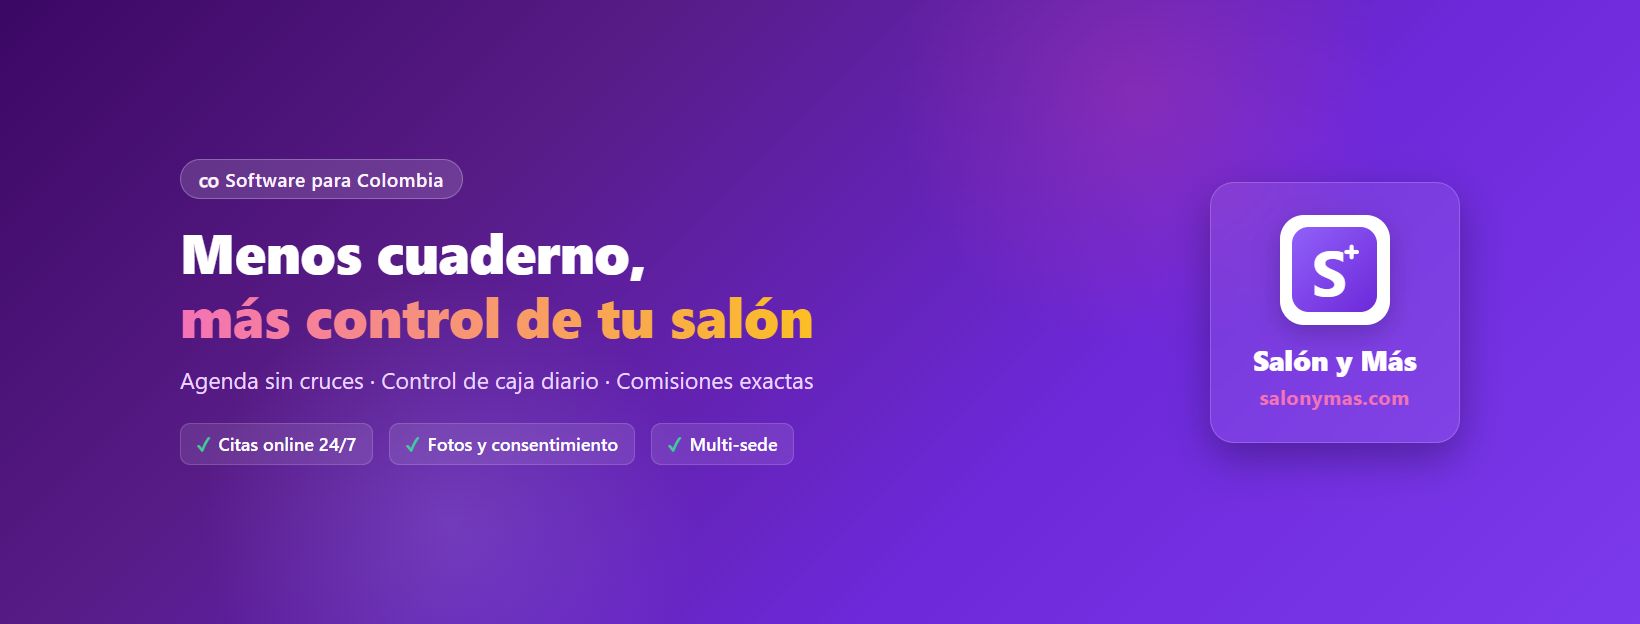
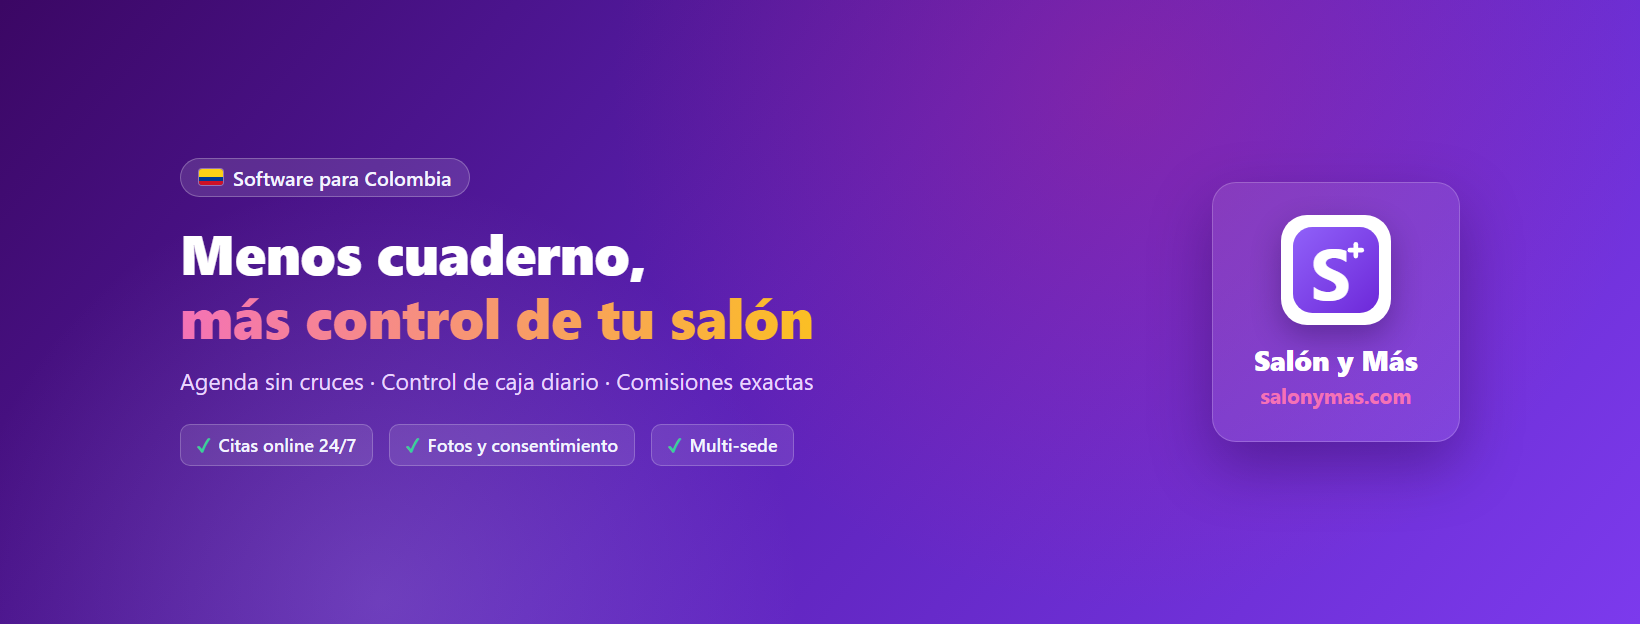
Marca: la portada de Facebook ya no dice "co"; sus plantillas viven en el repositorio
La portada del 06-sep salio con la bandera convertida en las letras "co"
(la trampa del emoji en Chrome sin ventana, anotada en REDES_SOCIALES §4).
Las plantillas de esas piezas se perdieron en una carpeta temporal, asi que
se reconstruyo midiendo el PNG: mismos textos y composicion, +-1 px; solo
cambia la bandera, ahora dibujada con sus tres franjas.

- marca/plantillas/portada_facebook.html: la fuente, con los colores en :root
- marca/plantillas/LEEME.md: el comando para exportar (probado) y las trampas
- REDES_SOCIALES.md: donde estan las plantillas y por que se rehizo

Aprobada por el propietario el 01-oct para subirla a Facebook.

diff --git a/docs/00_producto/marca/plantillas/portada_facebook.html b/docs/00_producto/marca/plantillas/portada_facebook.html
@@ -1,0 +1,199 @@
+<!doctype html>
+<html lang="es">
+<head>
+<meta charset="utf-8">
+<title>Portada de Facebook</title>
+<!--
+  Portada de la página de Facebook, 1640 x 624 px.
+  Es la fuente de docs/00_producto/marca/portada.png. Cómo se exporta: LEEME.md.
+
+  Reconstruida el 01-oct a partir del PNG del 06-sep, cuyas plantillas se
+  perdieron. Mismos textos y misma composición; el único cambio es la bandera,
+  que en el original salía como las letras "co".
+-->
+<style>
+  :root {
+    --morado: #7C3AED;
+    --morado-medio: #5B21B6;
+    --morado-noche: #3B0764;
+    --rosado: #F472B6;
+    --ambar: #FBBF24;
+    --lavanda: #E9D5FF;
+    --verde: #34D399;
+    --blanco: #FFFFFF;
+    --logo-claro: #9061F9;
+    --logo-oscuro: #6D28D9;
+  }
+
+  * { box-sizing: border-box; margin: 0; padding: 0; }
+
+  html, body { width: 1640px; height: 624px; overflow: hidden; }
+
+  body {
+    font-family: 'Segoe UI', system-ui, sans-serif;
+    color: var(--blanco);
+    background:
+      radial-gradient(circle 520px at 1130px 90px, rgba(219, 39, 119, .26), transparent),
+      radial-gradient(circle 420px at 380px 600px, rgba(196, 181, 253, .22), transparent),
+      linear-gradient(130deg, var(--morado-noche) 0%, var(--morado-medio) 48%, var(--morado) 100%);
+    display: flex;
+    align-items: center;
+    justify-content: space-between;
+    padding: 0 180px;
+  }
+
+  /* ---------- Bloque de texto, a la izquierda ---------- */
+
+  .etiqueta {
+    display: inline-flex;
+    align-items: center;
+    gap: 10px;
+    height: 39px;
+    padding: 0 18px;
+    border-radius: 999px;
+    background: rgba(255, 255, 255, .12);
+    border: 1px solid rgba(255, 255, 255, .25);
+    font-size: 20px;
+    font-weight: 600;
+    color: #F3F4FF;
+  }
+
+  /*
+    La bandera va dibujada, nunca como emoji: en Chrome sin ventana sobre
+    Windows el emoji de Colombia sale como las letras "co" (REDES_SOCIALES.md §4).
+    Franjas: amarillo 50 %, azul 25 %, rojo 25 %.
+  */
+  .bandera {
+    width: 24px;
+    height: 16px;
+    border-radius: 3px;
+    background: linear-gradient(to bottom,
+      #FCD116 0 50%, #003893 50% 75%, #CE1126 75% 100%);
+    box-shadow: 0 0 0 1px rgba(255, 255, 255, .35);
+    flex: none;
+  }
+
+  h1 {
+    margin-top: 23px;
+    font-size: 56px;
+    font-weight: 900;
+    line-height: 1.15;
+    letter-spacing: -.5px;
+  }
+
+  h1 .acento {
+    background: linear-gradient(90deg, var(--rosado), var(--ambar));
+    -webkit-background-clip: text;
+    background-clip: text;
+    color: transparent;
+  }
+
+  .resumen {
+    margin-top: 17px;
+    font-size: 23px;
+    color: var(--lavanda);
+  }
+
+  .pilares {
+    display: flex;
+    gap: 16px;
+    margin-top: 28px;
+  }
+
+  .pilar {
+    display: inline-flex;
+    align-items: center;
+    gap: 8px;
+    height: 42px;
+    padding: 0 16px;
+    border-radius: 10px;
+    background: rgba(255, 255, 255, .10);
+    border: 1px solid rgba(255, 255, 255, .22);
+    font-size: 18px;
+    font-weight: 600;
+    color: #F3F4FF;
+  }
+
+  .pilar::before {
+    content: "✓";
+    color: var(--verde);
+    font-weight: 700;
+  }
+
+  /* ---------- Tarjeta del logo, a la derecha ---------- */
+
+  .tarjeta {
+    width: 248px;
+    height: 260px;
+    border-radius: 24px;
+    background: rgba(255, 255, 255, .09);
+    border: 1.5px solid rgba(255, 255, 255, .20);
+    box-shadow: 0 24px 60px rgba(30, 0, 60, .35);
+    display: flex;
+    flex-direction: column;
+    align-items: center;
+    justify-content: center;
+  }
+
+  .logo {
+    width: 110px;
+    height: 110px;
+    padding: 12px;
+    border-radius: 26px;
+    background: var(--blanco);
+    box-shadow: 0 12px 30px rgba(20, 0, 50, .30);
+  }
+
+  .logo svg { display: block; width: 86px; height: 86px; }
+
+  .nombre {
+    margin-top: 16px;
+    font-size: 28px;
+    font-weight: 900;
+  }
+
+  .web {
+    margin-top: 2px;
+    font-size: 21px;
+    font-weight: 700;
+    color: var(--rosado);
+  }
+</style>
+</head>
+<body>
+
+  <section>
+    <span class="etiqueta"><span class="bandera" aria-hidden="true"></span>Software para Colombia</span>
+    <h1>Menos cuaderno,<br><span class="acento">más control de tu salón</span></h1>
+    <p class="resumen">Agenda sin cruces · Control de caja diario · Comisiones exactas</p>
+    <div class="pilares">
+      <span class="pilar">Citas online 24/7</span>
+      <span class="pilar">Fotos y consentimiento</span>
+      <span class="pilar">Multi-sede</span>
+    </div>
+  </section>
+
+  <aside class="tarjeta">
+    <div class="logo">
+      <!-- El isotipo S+, copiado de ../marca.svg -->
+      <svg viewBox="0 0 512 512" xmlns="http://www.w3.org/2000/svg">
+        <defs>
+          <linearGradient id="g" x1="0" y1="0" x2="1" y2="1">
+            <stop offset="0" stop-color="#9061F9"/>
+            <stop offset="1" stop-color="#6D28D9"/>
+          </linearGradient>
+        </defs>
+        <rect x="0" y="0" width="512" height="512" rx="115.2" ry="115.2" fill="url(#g)"/>
+        <text x="223.232" y="256" fill="#FFFFFF"
+              font-family="Segoe UI, Arial, Helvetica, sans-serif" font-weight="700"
+              font-size="425.984" text-anchor="middle" dominant-baseline="central">S</text>
+        <rect x="324.8128" y="124.1088" width="98.304" height="27.8528" rx="13.9264" fill="#FFFFFF"/>
+        <rect x="360.0384" y="88.8832" width="27.8528" height="98.304" rx="13.9264" fill="#FFFFFF"/>
+      </svg>
+    </div>
+    <div class="nombre">Salón y Más</div>
+    <div class="web">salonymas.com</div>
+  </aside>
+
+</body>
+</html>

diff --git a/docs/00_producto/marca/plantillas/LEEME.md b/docs/00_producto/marca/plantillas/LEEME.md
@@ -1,0 +1,36 @@
+# Plantillas de las piezas de marca
+
+Cada pieza gráfica de las redes nace aquí, como una página HTML, y se exporta a
+PNG con Chrome sin ventana. Sin licencias ni programas de pago.
+
+**Por qué están en el repositorio:** las plantillas de las piezas del 07-sep
+quedaron en una carpeta temporal y se perdieron. Para corregir una sola cosa de
+la portada hubo que reconstruirla entera el 01-oct, midiendo el PNG.
+
+| Plantilla | Exporta a | Medidas |
+|---|---|---|
+| `portada_facebook.html` | `../portada.png` | 1640 × 624 |
+
+## Cómo se exporta
+
+Desde la raíz del repositorio, en PowerShell (una sola línea):
+
+```powershell
+& "C:\Program Files\Google\Chrome\Application\chrome.exe" --headless=new --disable-gpu --hide-scrollbars --force-device-scale-factor=1 --window-size=1640,624 --screenshot="$PWD\docs\00_producto\marca\portada.png" "file:///$PWD/docs/00_producto/marca/plantillas/portada_facebook.html"
+```
+
+`--window-size` lleva las medidas de la pieza, y `--force-device-scale-factor=1`
+evita que salga al doble en una pantalla de alta resolución.
+
+## Trampas conocidas
+
+- **La bandera de Colombia no se escribe como emoji.** En Chrome sin ventana,
+  sobre Windows, 🇨🇴 sale como las letras `co`. Así salió publicada la portada del
+  06-sep. Se dibuja con tres franjas (amarillo 50 %, azul 25 %, rojo 25 %): ver la
+  clase `.bandera` de `portada_facebook.html`.
+- **La letra es Segoe UI, que viene con Windows.** Exportar en otro sistema
+  cambia la letra y las medidas.
+- **PNG y no JPG** para piezas con texto o logo: lo recomienda la propia ayuda
+  de Meta, porque el JPG ensucia los bordes de las letras.
+- **Los colores viven en `:root`** al principio de cada plantilla y son los de
+  `REDES_SOCIALES.md` §4. Una pieza nueva copia ese bloque y no inventa tonos.

diff --git a/docs/02_operacion/REDES_SOCIALES.md b/docs/02_operacion/REDES_SOCIALES.md
@@ -76,11 +76,14 @@ del proyecto y no solo en el disco: se perdieron una vez por estar sin commitear
 |---|---|---|
 | `marca.svg` / `marca-maskable.svg` | vectorial | El isotipo `S+`, origen de todo lo demás |
 | `perfil.png` | 512 × 512 | Foto de perfil, con margen para el recorte circular |
-| `portada.png` | 1640 × 624 | Portada de Facebook — *"Menos cuaderno, más control de tu salón"* |
+| `portada.png` | 1640 × 624 | Portada de Facebook — *"Menos cuaderno, más control de tu salón"*. **Rehecha el 01-oct:** la del 06-sep decía *"co Software para Colombia"* (la trampa de abajo) |
 | `post_instagram_1.png` | 1080 × 1080 | Post de lanzamiento |
 
 Se componen en HTML/CSS con los colores de marca y se exportan a PNG con Chrome
-headless. Sin licencias ni herramientas de pago.
+headless. Sin licencias ni herramientas de pago. **Las fuentes HTML viven en
+`marca/plantillas/`, con el comando para exportarlas** (desde el 01-oct). Las
+del 07-sep quedaron en una carpeta temporal y se perdieron; por eso la portada
+hubo que reconstruirla midiendo el PNG.
 
 **Colores:** morado `#7C3AED`, degradado `#4C1D95` → `#7C3AED`, acentos `#F472B6`
 y `#FBBF24`.
